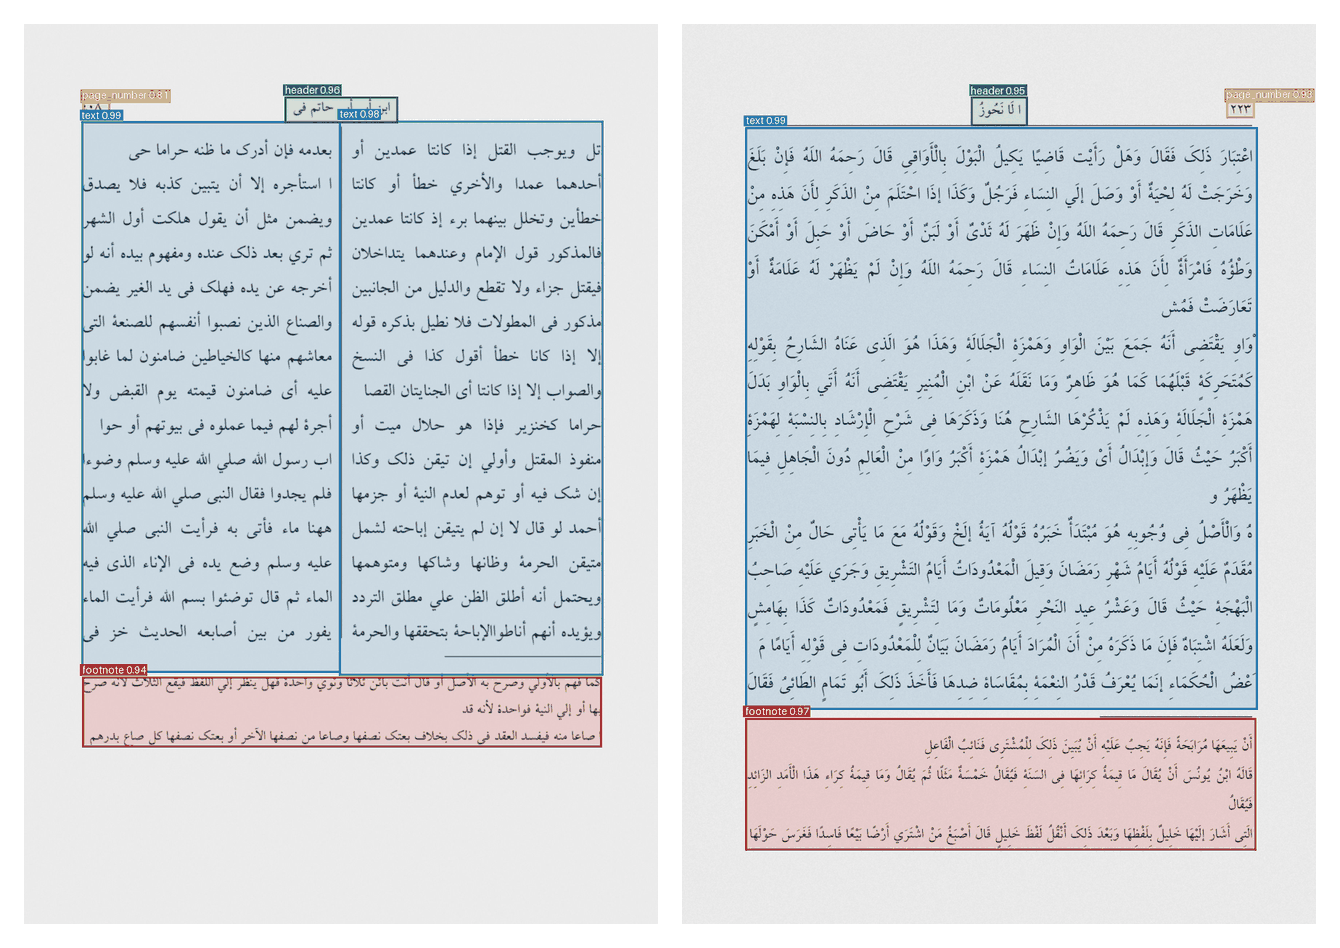
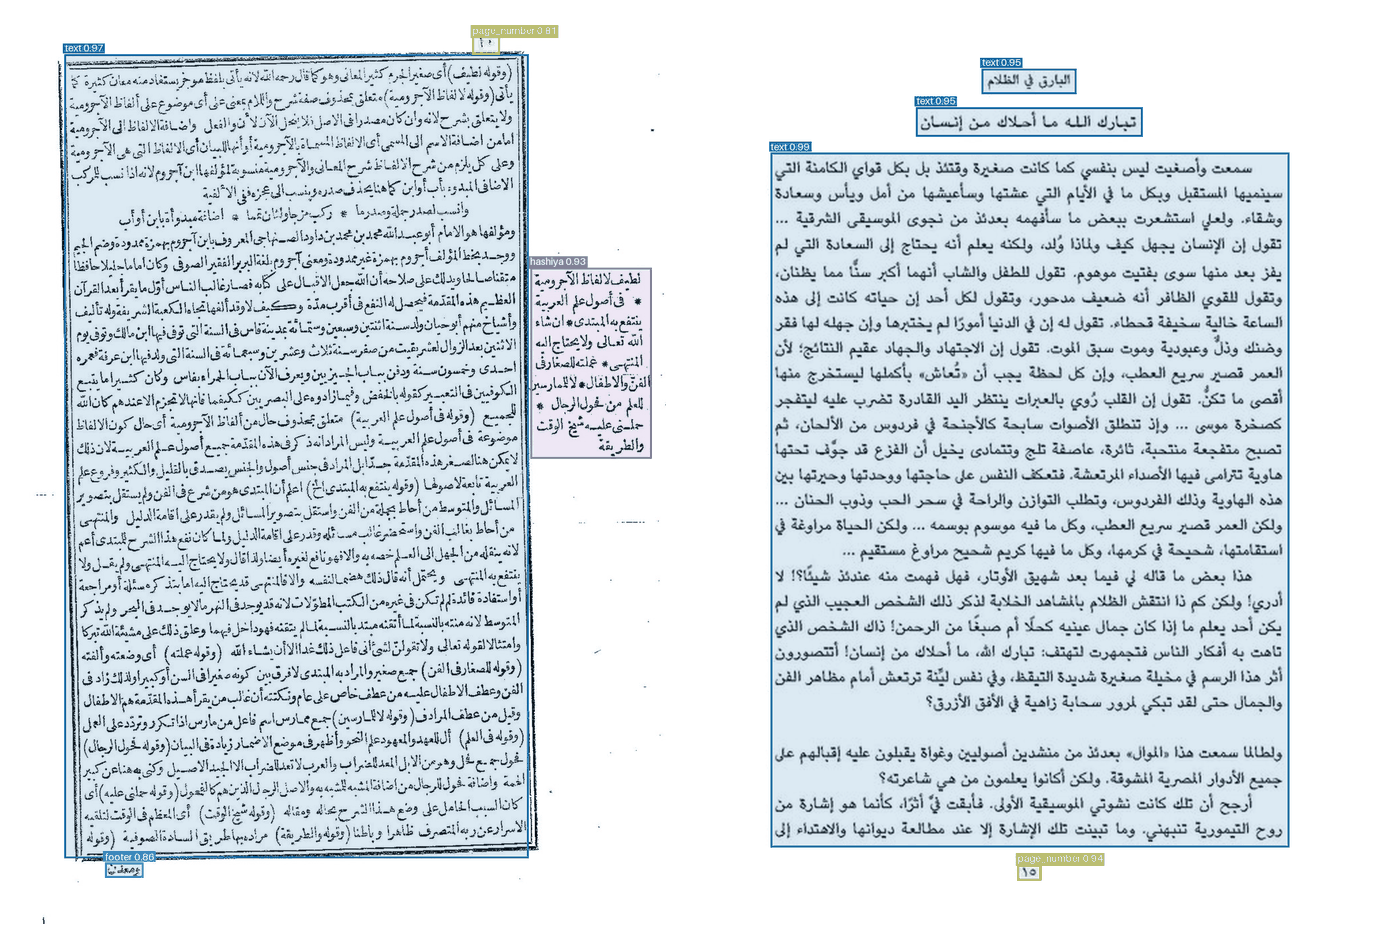
Show the models on real pages: a public-domain print and a CC BY book
The example drew regions on synthetic pages. It now shows a glossed
commentary from Wikimedia Commons (public domain) and a page of Mayy
Ziyada's 1926 book (CC BY 4.0), credited under the picture.

diff --git a/README.md b/README.md
@@ -2,7 +2,15 @@
 
 Arabic document page layout analyzer.
 
-![Two pages with their regions drawn](docs/example.png)
+![Two real pages with PP-DocLayout_plus-L's regions drawn: a printed commentary with its gloss in the margin, and a modern typeset page](docs/example.png)
+
+*Left:* Ibn Hamdun's gloss on al-Azhari's commentary on the *Ājurrūmiyya*,
+page 10 — a public-domain print ([Wikimedia Commons](https://commons.wikimedia.org/wiki/File:%D8%AD%D8%A7%D8%B4%D9%8A%D8%A9_%D8%A7%D8%A8%D9%86_%D8%AD%D9%85%D8%AF%D9%88%D9%86_%D8%B9%D9%84%D9%89_%D8%B4%D8%B1%D8%AD_%D8%AE%D8%A7%D9%84%D8%AF_%D8%A7%D9%84%D8%A3%D8%B2%D9%87%D8%B1%D9%8A_%D8%B9%D9%84%D9%89_%D8%A7%D9%84%D8%A2%D8%AC%D8%B1%D9%88%D9%85%D9%8A%D8%A9.pdf),
+Internet Archive `ajouroumya_ibnhamdoun`).
+*Right:* Mayy Ziyada, *ʿĀʾisha Taymūr* (1926), page 15, Hindawi Foundation
+edition, [CC BY 4.0](https://creativecommons.org/licenses/by/4.0/)
+([Wikimedia Commons](https://commons.wikimedia.org/wiki/File:%D8%B9%D8%A7%D8%A6%D8%B4%D8%A9_%D8%AA%D9%8A%D9%85%D9%88%D8%B1_%D9%85%D9%8A_%D8%B2%D9%8A%D8%A7%D8%AF%D8%A9_1926.pdf)).
+Both are shown with the detected regions drawn over them.
 
 Two models, fine-tuned on the same 12,000 synthetic and 1,352 hand-labelled
 real pages:
